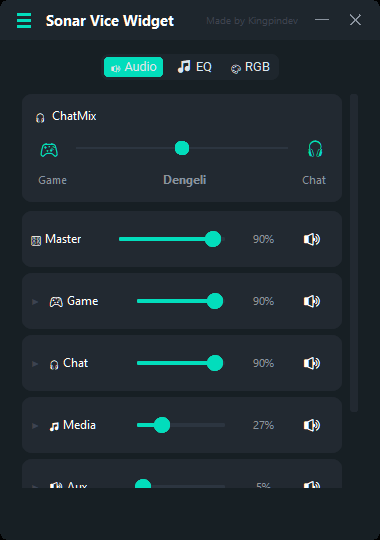
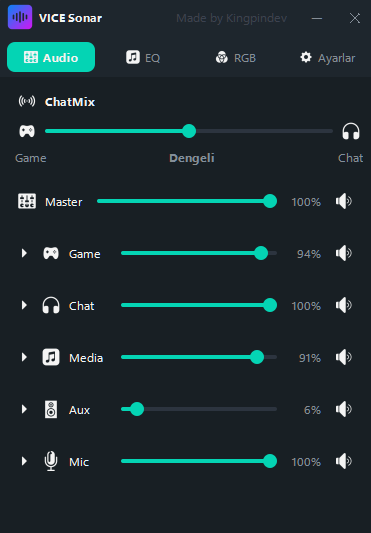
docs: add v3.1 screenshots — panels, themes, horizontal layout

diff --git a/README.md b/README.md
@@ -1,110 +1,131 @@
 # VICE Sonar
 
 <p align="center">
-  <img src="screenshots/audio.png" width="220" alt="VICE Sonar"/>
+  <img src="screenshots/audio.png" width="200" alt="VICE Sonar"/>
 </p>
 
 <p align="center">
   <strong>A sleek, always-on-top desktop widget for SteelSeries GG</strong><br/>
-  Control your Sonar audio, EQ profiles, and RGB lighting — without ever touching the main app.
+  Control your Sonar audio, EQ profiles, and RGB lighting — without ever opening the main app.
 </p>
 
 <p align="center">
   <img src="https://img.shields.io/badge/Platform-Windows%2010%2F11-0078D6?style=flat&logo=windows&logoColor=white"/>
+  &nbsp;
   <img src="https://img.shields.io/badge/Version-3.1-00D4AA?style=flat"/>
+  &nbsp;
   <img src="https://img.shields.io/github/downloads/kingpin1dev/VICE-Sonar/total?style=flat&color=00D4AA&label=Downloads&logo=github"/>
 </p>
 
 ---
 
-## Download
+## ⬇ Download
 
 <p align="center">
   <a href="../../releases/latest">
-    <img src="https://img.shields.io/badge/⬇%20Download%20Latest-ViceSonar__Setup__v1.0.0.exe-00D4AA?style=for-the-badge&logo=github" alt="Download Latest"/>
+    <img src="https://img.shields.io/badge/Download%20Latest-ViceSonar__Setup__v1.0.0.exe-00D4AA?style=for-the-badge&logo=github&logoColor=white" alt="Download"/>
   </a>
 </p>
 
-Just download **`ViceSonar_Setup_v1.0.0.exe`** from the [Releases](../../releases/latest) page and run it.
-No Python, no dependencies — the installer handles everything.
+Grab **`ViceSonar_Setup_v1.0.0.exe`** from the [Releases](../../releases/latest) page and run it.
+No Python, no manual setup — the installer handles everything.
 
 ---
 
-## Screenshots
+## 📸 Screenshots
 
+### Panels
 <p align="center">
-  <img src="screenshots/audio.png" width="230" alt="Audio Panel"/>
+  <img src="screenshots/audio.png" width="210" alt="Audio"/>
   &nbsp;
-  <img src="screenshots/eq.png" width="230" alt="EQ Profiles"/>
+  <img src="screenshots/eq.png" width="210" alt="EQ Profiles"/>
   &nbsp;
-  <img src="screenshots/rgb.png" width="230" alt="RGB Lighting"/>
+  <img src="screenshots/rgb.png" width="210" alt="RGB"/>
+  &nbsp;
+  <img src="screenshots/settings.png" width="210" alt="Settings"/>
 </p>
 <p align="center">
-  <em>Audio Controls &nbsp;·&nbsp; EQ Profiles &nbsp;·&nbsp; RGB Lighting</em>
+  <em>Audio &nbsp;·&nbsp; EQ Profiles &nbsp;·&nbsp; RGB Lighting &nbsp;·&nbsp; Settings</em>
+</p>
+
+### Themes
+<p align="center">
+  <img src="screenshots/audio.png" width="185" alt="Moonlight"/>
+  &nbsp;
+  <img src="screenshots/theme_sunlight.png" width="185" alt="Sunlight"/>
+  &nbsp;
+  <img src="screenshots/theme_eris.png" width="185" alt="Eris"/>
+  &nbsp;
+  <img src="screenshots/theme_glassmorphic.png" width="185" alt="Glassmorphic"/>
+</p>
+<p align="center">
+  <em>Moonlight &nbsp;·&nbsp; Sunlight &nbsp;·&nbsp; Eris &nbsp;·&nbsp; Glassmorphic</em>
+</p>
+
+### Horizontal Layout
+<p align="center">
+  <img src="screenshots/horizontal_eris.png" width="420" alt="Horizontal Eris"/>
+  &nbsp;
+  <img src="screenshots/horizontal_rgb.png" width="420" alt="Horizontal RGB"/>
+</p>
+<p align="center">
+  <em>Every theme supports a horizontal widescreen layout</em>
 </p>
 
 ---
 
-## Features
+## ✨ Features
 
-### Audio Controls
-Full control over every SteelSeries Sonar channel from a compact floating panel.
+### 🔊 Audio Controls
+- **Per-channel volume sliders** — Master, Game, Chat, Media, Aux, Mic
+- **Mute toggles** on every channel
+- **ChatMix slider** — hardware-synced Game/Chat balance with live label
+- **Per-channel output device selector** — switch devices on the fly
+- Channels **collapse and expand** to keep things clean
 
-- **Per-channel volume sliders** for Master, Game, Chat, Media, Aux, and Mic
-- **Mute toggles** on every channel — one click, instant result
-- **ChatMix slider** — hardware-synced Game/Chat balance with live feedback
-- **Per-channel output device selector** — switch headset, speakers, or virtual cables on the fly
-- Channels collapse and expand to keep the view clean
-
-### EQ Profiles
-Switch EQ presets without opening SteelSeries GG.
-
-- Instantly apply your saved Sonar EQ profiles per device
-- Separate preset pickers for **Game, Chat, Mic, Media, and Aux** channels
+### 🎛 EQ Profiles
+- Instantly apply your **saved Sonar EQ presets** per device
+- Separate pickers for **Game, Chat, Mic, Media, Aux**
 - Active preset highlighted with a checkmark
-- Reload button to refresh profiles without restarting
+- **Reload** button refreshes presets without restarting
 
-### RGB Lighting
-Send colors directly to your SteelSeries devices via GameSense.
-
+### 💡 RGB Lighting
 - **R / G / B sliders** with live color preview
 - One-click presets: Orange, Red, Blue, Green, White, Off
-- Apply button sends color to all connected devices instantly
+- Sends colors directly to devices via **GameSense**
 
-### Settings Panel
-Customize the widget to fit your setup.
-
+### ⚙ Settings
 - **7 themes** — Sunlight, Moonlight, Orbit, Aqua, Eris, Cyber, Spider Lily
-- **Horizontal layout** toggle for each theme — widescreen friendly
-- **Transparency slider** — adjust opacity from 40% to 100%
+- **Horizontal layout** toggle — widescreen friendly
+- **Transparency slider** — 40% to 100% opacity
 - **Always on Top** toggle
 - **Start with Windows** option
-- **7 interface languages** — Türkçe, English, Français, Русский, Deutsch, Español, العربية
-- Restart button to apply changes instantly
+- **7 languages** — Türkçe, English, Français, Русский, Deutsch, Español, العربية
+- **Restart** button to apply changes instantly
 
-### UI & UX
+### 🖥 UI & UX
 - Fully **borderless and draggable** — sits anywhere on screen
-- **Position memory** — remembers exactly where you placed it
+- **Position memory** — remembers where you placed it
 - **Instant tab switching** — all panels stay loaded in the background
-- **System tray integration** — hide/show, topmost toggle, restart, quit
-- No taskbar entry — stays out of your way
+- **System tray** — hide/show, topmost toggle, restart, quit
+- No taskbar entry — completely out of your way
 
 ---
 
-## Requirements
+## 📋 Requirements
 
 - Windows 10 or 11
 - [SteelSeries GG](https://steelseries.com/gg) installed and running with Sonar active
 
 ---
 
-## Installation
+## 🔧 Installation
 
 1. Download `ViceSonar_Setup_v1.0.0.exe` from [Releases](../../releases/latest)
-2. Run the installer — choose your shortcuts, startup preference, and install directory
-3. Launch **VICE Sonar** and enjoy
+2. Run the installer and follow the wizard
+3. Launch **VICE Sonar** from your desktop or Start Menu
 
-The uninstaller is included and accessible from Windows Settings → Add or Remove Programs.
+The uninstaller is included — accessible from **Windows Settings → Apps**.
 
 ---
 
